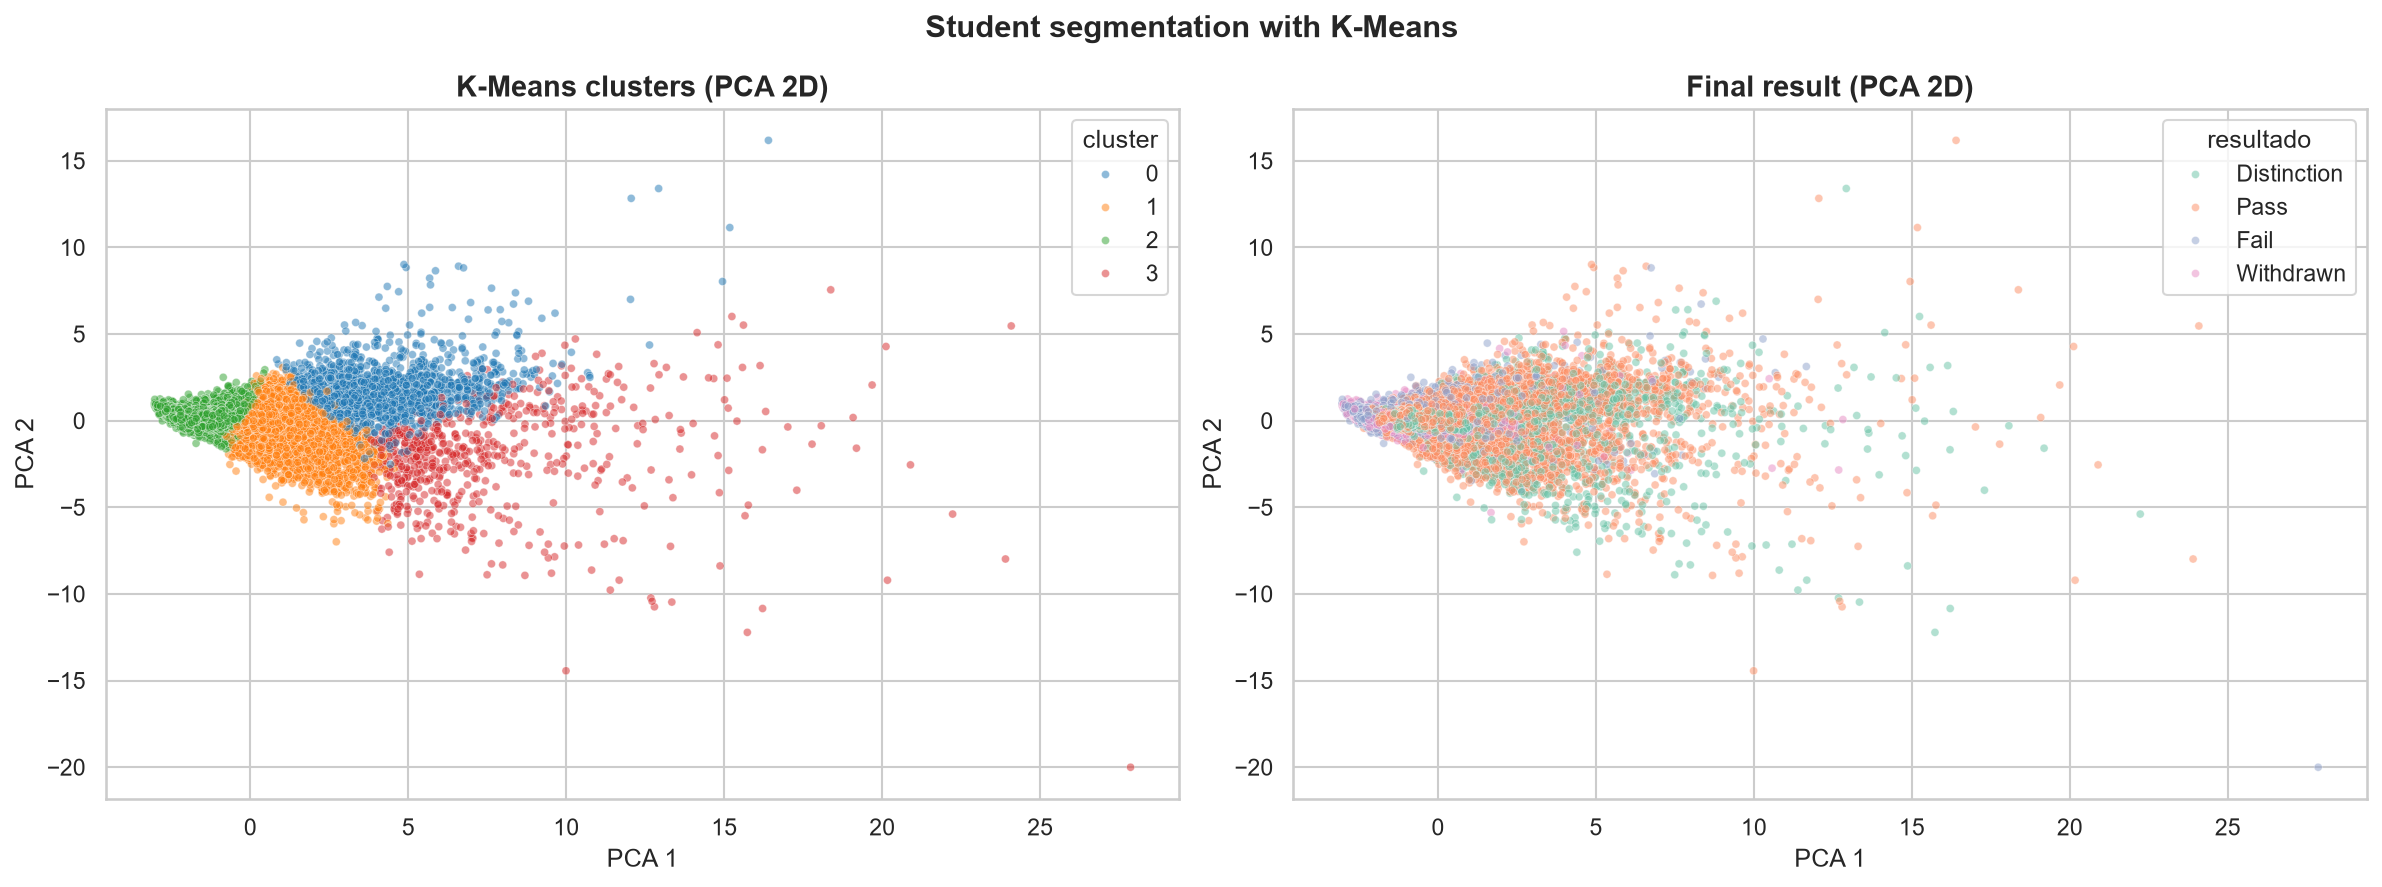
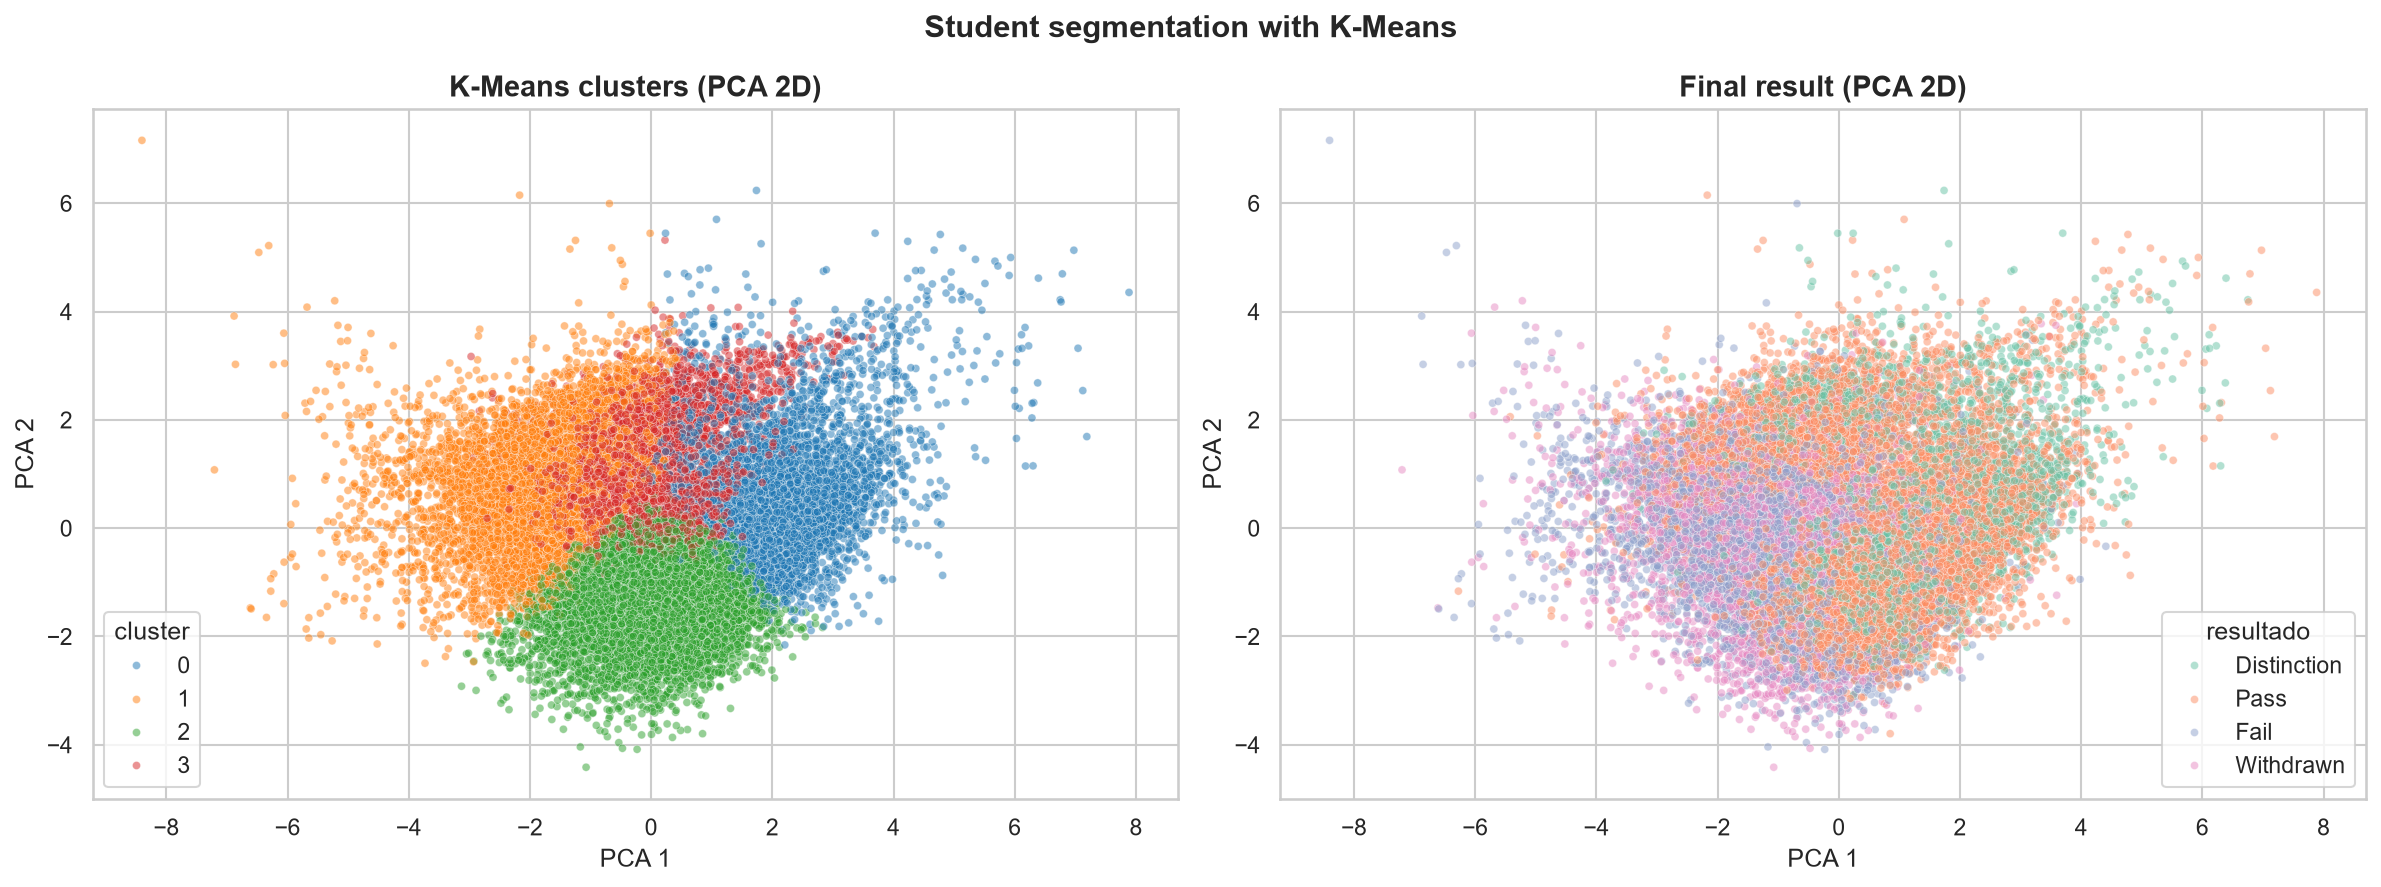
Usa proporções de activity_type na segmentação K-Means

diff --git a/src/vle_temporal.py b/src/vle_temporal.py
@@ -130,16 +130,21 @@ def clicks_by_activity_per_student(
     df_vle_meta: pd.DataFrame,
     activities: List[str] | None = None,
     n: int = 8,
+    as_proportion: bool = False,
 ) -> pd.DataFrame:
     """
     Tabla ancha de clics por estudante-curso desglosados por activity_type.
 
     Útil para enriquecer la segmentación K-Means con la dimensión de *qué tipo*
-    de actividad usa cada estudante (no solo cuántos clics totales).
+    de actividad usa cada estudante.
 
-    Devuelve un DataFrame con las claves estudante-curso y una columna por cada
-    tipo de actividad, nombrada `act_<tipo>` (clics totales en toda la
-    presentación). Si `activities` es None, usa los `n` tipos con más clics.
+    - `as_proportion=False` (por defecto): cada `act_<tipo>` son los clics
+      absolutos en ese tipo.
+    - `as_proportion=True`: cada `act_<tipo>` es la **proporción** (0-1) de los
+      clics del estudante que va a ese tipo. Captura el *estilo* de aprendizaje
+      independientemente del volumen total (recomendado para clustering).
+
+    Si `activities` es None, usa los `n` tipos con más clics.
     """
     site2act = df_vle_meta.set_index("id_site")["activity_type"]
     df = df_vle[["id_student", "code_module", "code_presentation", "id_site", "sum_click"]].copy()
@@ -158,5 +163,10 @@ def clicks_by_activity_per_student(
         .unstack(fill_value=0)
     )
     piv = piv.reindex(columns=activities, fill_value=0)
+
+    if as_proportion:
+        totals = piv.sum(axis=1)
+        piv = piv.div(totals.where(totals > 0, 1), axis=0)  # 0 si el estudante no tuvo clics
+
     piv.columns = [f"act_{c}" for c in piv.columns]
     return piv.reset_index()

diff --git a/outputs/report/informe_oulad.md b/outputs/report/informe_oulad.md
@@ -214,21 +214,24 @@ primeiro mês do curso.
 `p6_C_entrega_tardia.png`.
 
 ### Segmentação com K-Means
-Features: cliques totais, score médio, dias ativos, escolaridade, IMD **e os
-cliques por `activity_type`** (top 8 tipos). Com **K = 4** clusters (método do
-cotovelo) e PCA 2D que explica **50,4%** da variância, emergem perfis claros:
+Features: cliques totais, score médio, dias ativos, escolaridade, IMD **e as
+proporções de cliques por `activity_type`** (top 8 tipos — captam o *estilo* de
+uso, não só o volume). Com **K = 4** clusters (método do cotovelo) e PCA 2D que
+explica **36,4%** da variância, emergem perfis claros:
 
 | Cluster | N | Cliques médios | Score médio | Dias ativos | Perfil |
 |---:|---:|---:|---:|---:|---|
-| 3 | 674 | 6.939 | 84,1 | 206 | **Elite / hiperativos** (37,5% distinção, 1,6% evasão). |
-| 0 | 2.272 | 4.934 | 81,0 | 147 | **Alto desempenho / muito ativos** (25,2% distinção). |
-| 1 | 7.577 | 1.969 | 79,4 | 103 | Bom desempenho, atividade média-alta. |
-| 2 | 15.034 | 561 | 67,6 | 36 | **Baixo desempenho / em risco** (31,4% reprovação, 27,0% evasão). |
+| 0 | 5.227 | 3.899 | 81,9 | 133 | **Alto engajamento e desempenho** (24,1% distinção, 2,3% evasão). |
+| 3 | 4.475 | 1.159 | 77,9 | 73 | Bom desempenho, atividade moderada. |
+| 2 | 9.902 | 964 | 69,8 | 45 | Desempenho médio (25,9% reprovação, 21,5% evasão). |
+| 1 | 5.953 | 694 | 65,6 | 54 | **Em risco** (31,3% reprovação, 26,2% evasão). |
 
-Ao incluir o `activity_type`, os perfis passam a refletir não só *quanto* o
-estudante clica, mas *em que tipo de recurso* — separando melhor o grupo de
-elite (uso intenso de conteúdo e fórum) do grupo em risco (pouca atividade e
-predomínio de navegação).
+Ao usar as **proporções** de `activity_type` (em vez de contagens absolutas), a
+segmentação deixa de ser um simples ranking por volume de cliques: note que os
+clusters 1, 2 e 3 têm volumes parecidos (694–1.159 cliques) mas resultados bem
+diferentes, porque agora separam-se pelo *estilo* de uso. O custo é que o PCA 2D
+explica menos variância (36,4%), já que o espaço de features é mais
+alto-dimensional — a projeção 2D é apenas uma referência visual.
 
 *Figuras:* `p7_A_metodo_codo.png`, `p7_B_pca_clusters.png`.
 
@@ -270,9 +273,9 @@ só *quanto* o estudante clica, mas *em que tipo de recurso*.
 4. **A deficiência eleva o risco de evasão** (OR = 1,49; 39,3% vs 30,3% de
    evasão), indicando a necessidade de apoio específico.
 5. **Há grande heterogeneidade entre módulos**: AAA aprova 71% enquanto CCC tem
-   evasão de 44,5%; o clustering (com features de `activity_type`) isola um
-   grande segmento "em risco" (~15.000 estudantes) com baixa atividade, 31% de
-   reprovação e 27% de evasão.
+   evasão de 44,5%; o clustering (com proporções de `activity_type`) separa dois
+   perfis de baixo desempenho (~16.000 estudantes) com 22–26% de evasão e estilo
+   de uso pobre.
 
 ### Limitações da análise
 - Os dados são **observacionais**: as associações (p.ex. cliques ↔ sucesso)

diff --git a/README.md b/README.md
@@ -109,9 +109,9 @@ Todo o código usa `pathlib` (caminhos relativos) e `random_state=42`.
 4. **A deficiência aumenta o risco de evasão**: **39,3%** de evasão vs **30,3%**
    sem deficiência (**Odds Ratio = 1,49**).
 5. **Forte variabilidade entre módulos**: **AAA** aprova **71%** enquanto **CCC**
-   tem evasão de **44,5%**. O K-Means (K=4, com features de `activity_type`)
-   isola um grande segmento *em risco* (~15.000) com baixa atividade, 31% de
-   reprovação e 27% de evasão.
+   tem evasão de **44,5%**. O K-Means (K=4, com proporções de `activity_type`)
+   separa perfis de aprendizagem por *estilo* de uso, isolando ~16.000
+   estudantes de baixo desempenho (22–26% de evasão).
 
 ## Visualizações
 
@@ -125,7 +125,7 @@ destaque:
 | `p3_E_heatmap_correlacion.png` | Correlação demografia ↔ resultado. |
 | `p4_D_curva_abandono.png` | Curva acumulada de evasão por dia do curso. |
 | `p5_D_heatmap_metricas.png` | Métricas (aprovação/evasão/...) por módulo. |
-| `p7_B_pca_clusters.png` | Segmentação K-Means (com features de `activity_type`) no espaço PCA 2D. |
+| `p7_B_pca_clusters.png` | Segmentação K-Means (com proporções de `activity_type`) no espaço PCA 2D. |
 | `p8_A_weekly_heatmap.png` | Mix semanal de atividades por `activity_type`. |
 | 🔹 `p8_interactive_activity_weekly.html` | **Visualização interativa (Plotly)**: cliques médios por semana e `activity_type`, com menu por resultado. |
 